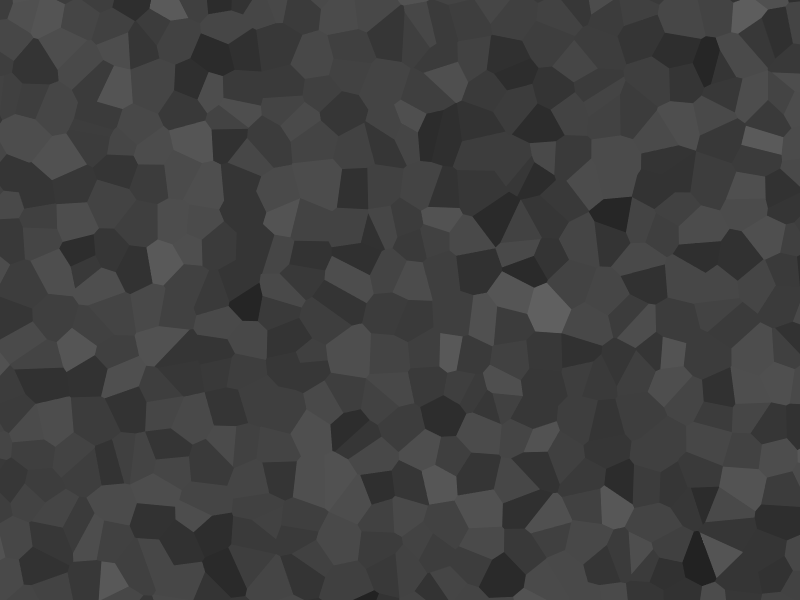
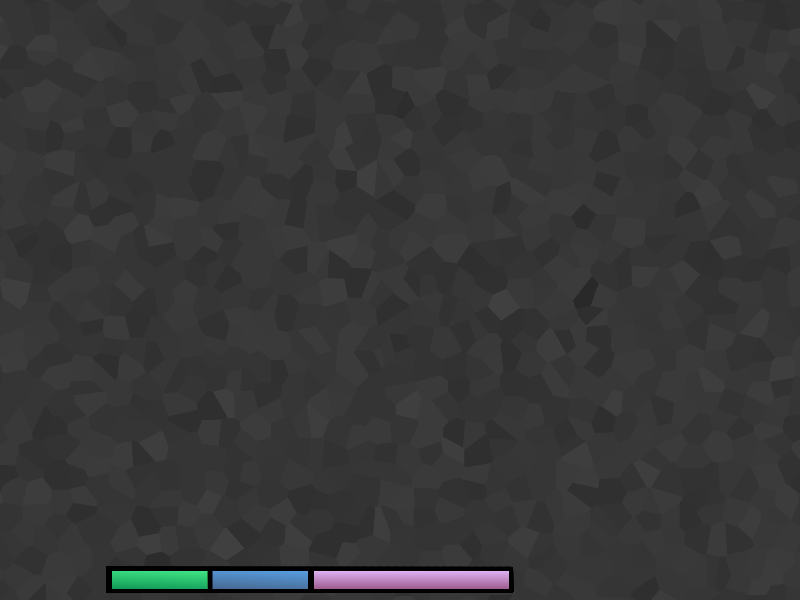
New background stuff for lazer & bg changes every few levels. Monsters start easier & get more difficult, win condition is changed to require level 20 (super skillz needed).

diff --git a/lazer.js b/lazer.js
@@ -105,11 +105,11 @@ var hero = {
 
 // Monster
 var monster = {
-	speed: 100,
+	speed: 50,
 	speedx: 0,
 	speedy: 0,
-	health: 2,
-	max_health: 2,
+	health: 1,
+	max_health: 1,
 	img: monsterImage,
 	img_ready: monsterReady,
 	img_hit: monsterHit,
@@ -122,9 +122,9 @@ var ugly = {
 	speed: 0,
 	speedx: 0,
 	speedy: 0,
-	max_speed: 110,
-	health: 3,
-	max_health: 3,
+	max_speed: 30,
+	health: 4,
+	max_health: 4,
 	img: uglyImage,
 	img_ready: uglyReady,
 	img_hit: uglyHit,
@@ -137,9 +137,9 @@ var grumpy = {
 	speed: 0,
 	speedx: 0,
 	speedy: 0,
-	max_speed: 120,
-	health: 4,
-	max_health: 4,
+	max_speed: 10,
+	health: 7,
+	max_health: 7,
 	img: grumpyImage,
 	img_ready: grumpyReady,
 	img_hit: grumpyHit,
@@ -160,11 +160,12 @@ var lazer = {
 // Points
 var score = 0;
 var highscore = 0;
-var win_score = 12;
+var win_level = 19;
 var level = 0;
 
 var dead = 0;
 var win = 0;
+var bg = 3;
 var new_level = 3;
 
 var spawnMonster = function(mnstr) {
@@ -304,9 +305,17 @@ var distance_squared = function(hro, mnstr) {
 	return (Math.pow(mnstr.x - hro.x, 2) + Math.pow(mnstr.y - hro.y, 2));
 };
 
+var change_background = function(new_background){
+	bg = 0;
+	bgImage.src = new_background;
+};
+
 // Paused or Unpaused?
 var paused = false;
 
+// Number of kills
+var kills = 0;
+var next_level = 10;
 
 // Update game objects
 var update = function (modifier) {
@@ -409,6 +418,13 @@ var update = function (modifier) {
 			new_level = 0;
 		}
 	}
+	
+	if (bg < 3) {
+		bg += 1*modifier;
+		if (bg > 3){
+			bg = 3;
+		}
+	}
 
 	// Are they touching? (Player Dies)
 	if (hero.x <= (lazer.target.x + 32)
@@ -419,6 +435,8 @@ var update = function (modifier) {
 		if (score > highscore) {
 			highscore = score;
 		}
+		
+		change_background("images/cave.png");
 		
 		score = 0;
 		level = 0;
@@ -431,43 +449,74 @@ var update = function (modifier) {
 		reset();
 	}
 	
+	
 	if (lazer.on && lazer.power > 0) {
 		
 		lazer.power -= 3*modifier;
 		
 		lazer.target.health -= 2*modifier;
 		
+		score += Math.round(100*modifier);
+		
 		// Monster dies
 		if (lazer.target.health <= 0) {
-			score++;
-			if (score == win_score){
+			
+			kills += lazer.target.max_health;
+			
+			if (level == win_level){
 				win = 3;
 			}
-			if (score % 4 == 0) {
+			if (kills >= next_level) {
 				level++;
+				next_level = kills + level + 10;
 				new_level = 3;
 				
 				// Let ugly enter game
 				if (level == 1) {
 					ugly.speed = ugly.max_speed;
 					lazer.max_power += lazer.max_power;
-					lazer.replenish_rate++;
 				}
 				
 				// Let grumpy enter game
 				if (level == 2) {
 					grumpy.speed = grumpy.max_speed;
 					lazer.max_power += lazer.max_power;
-					lazer.replenish_rate++;
 				}
 				
-				// Make it harder forever
-				if (level >= 3) {
-					monster.speed += 10;
-					ugly.speed += 10;
-					grumpy.speed += 10;
-					lazer.replenish_rate++;
+				monster.speed += 5;
+				
+				if (level >= 1){
+					ugly.speed += 5;
+					ugly.max_speed += 5;
 				}
+				
+				if (level >= 2){
+					grumpy.speed += 5;
+					grumpy.max_speed += 5;
+				}
+				
+				switch(level) {
+					case 3:
+						change_background("images/hell.png");
+						break;
+					case 7:
+						change_background("images/orange.png");
+						break;
+					case 11:
+						change_background("images/water.png");
+						break;
+					case 15:
+						change_background("images/grass.png");
+						break;
+					case 19:
+						change_background("images/gold.png");
+						break;
+					default:
+						break;
+				}
+				
+				lazer.replenish_rate++;
+				
 			}
 			
 			spawnMonster(lazer.target);
@@ -483,7 +532,10 @@ var render = function () {
 	
 	// Draw Background
 	if (bgReady) {
+		ctx.save();
+		ctx.globalAlpha = bg/3;
 		ctx.drawImage(bgImage, 0, 0);
+		ctx.restore();
 	}
 	
 	// Draw Lazer Beam
@@ -553,7 +605,7 @@ var render = function () {
 	}
 	
 	// Draw Hero
-	if (score < win_score){
+	if (level < win_level){
 		if (heroReady) {
 			drawHero(heroImage);
 		}
@@ -568,7 +620,7 @@ var render = function () {
 	ctx.font = "24px Helvetica";
 	ctx.textAlign = "left";
 	ctx.textBaseline = "top";
-	ctx.fillText("Score: " + score + "    High Score: " + highscore, 32, 32);
+	ctx.fillText("Score: " + score + "     High Score: " + highscore + "     Level: " + (level+1), 32, 32);
 	
 	// Lazer Power
 	ctx.fillText("Power:", 32, (600 - 32));
@@ -594,7 +646,7 @@ var render = function () {
 	ctx.globalAlpha = new_level/3;
 	ctx.font = "80px Helvetica";
 	ctx.fillStyle = "white";
-	ctx.fillText("Level " + level, 450, 10);
+	ctx.fillText("Level " + (level+1), 280, 100);
 	ctx.restore();
 	
 };
